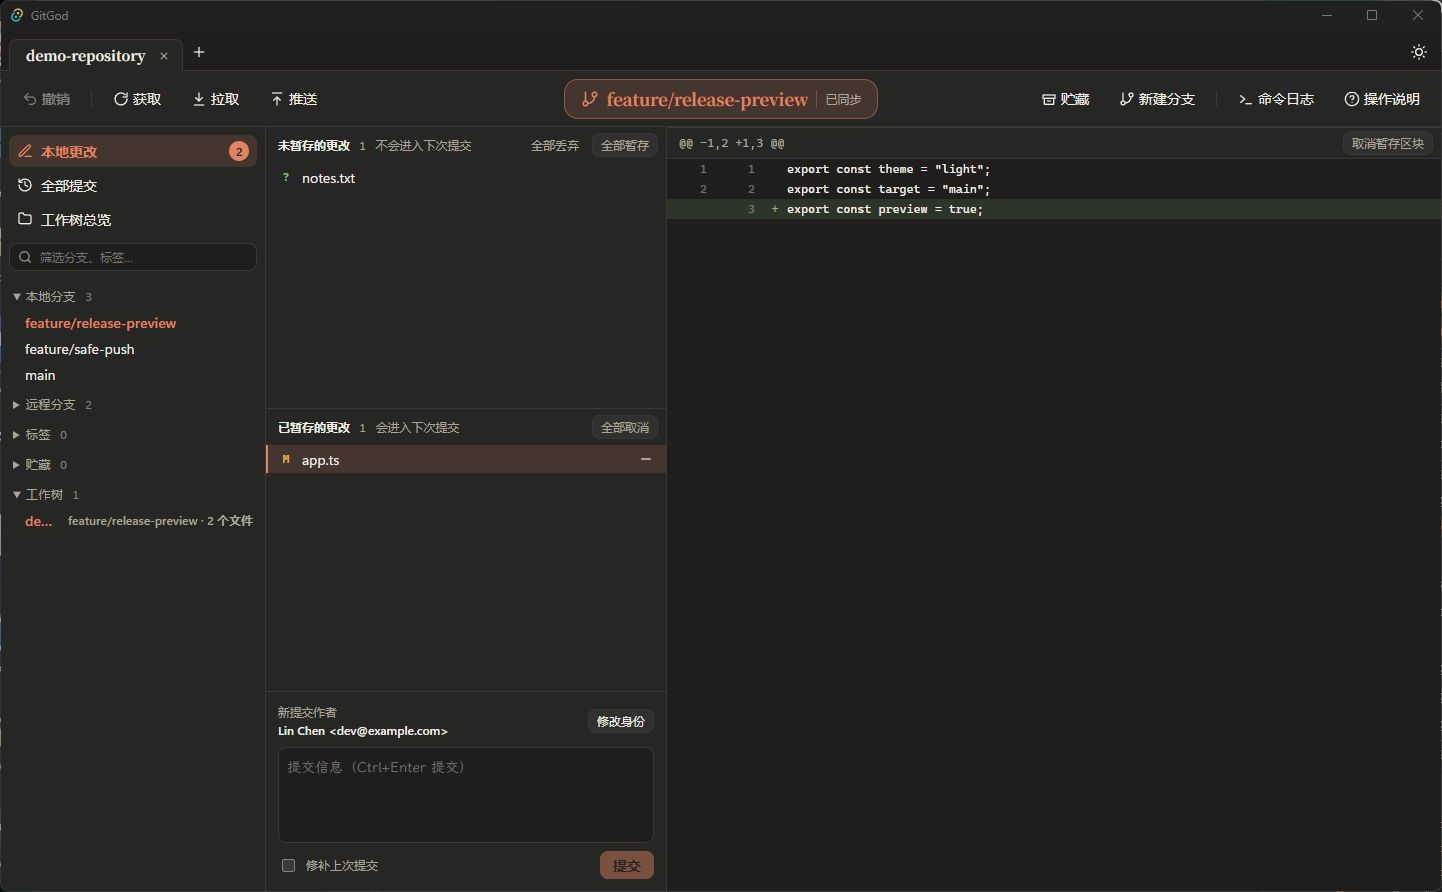
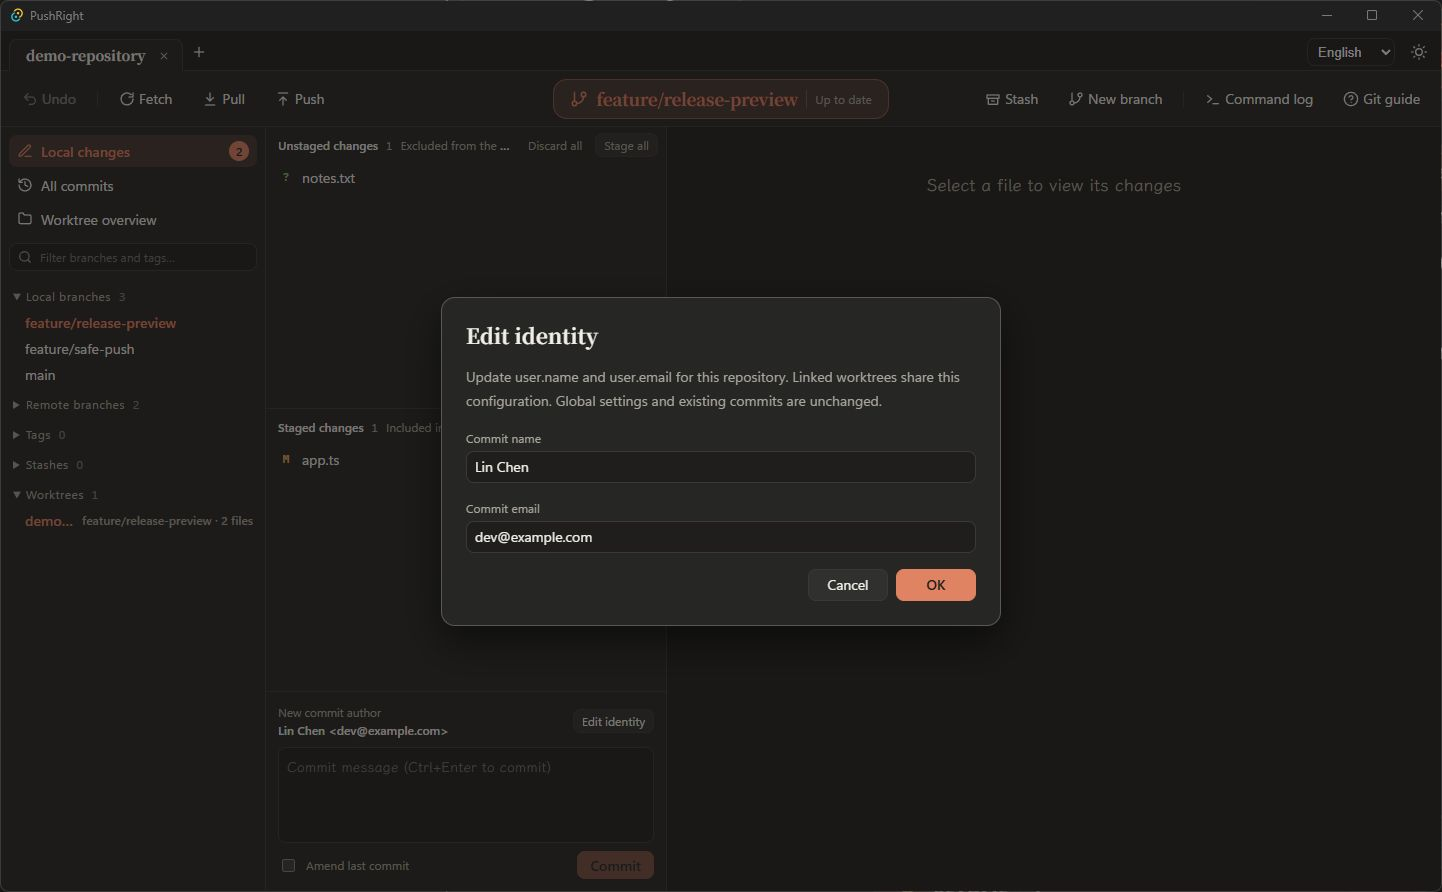
docs: publish bilingual PushRight guide with clean desktop screenshots

diff --git a/README.md b/README.md
@@ -1,100 +1,120 @@
-# GitGod
+# PushRight
 
-面向多分支日常工作的 Git 桌面可视化客户端，使用 Svelte、Tauri 和 Rust 构建。
+**See your branches. Push to the right place.**
 
-当前版本为 **v0.1.1 预览版**，提供 Windows x64 安装包。
+[English](README.md) · [简体中文](README.zh-CN.md)
 
-![GitGod 桌面版：提交图、独立作者样式与差异视图](docs/images/desktop.jpg)
+A Git desktop client built with Svelte, Tauri and Rust. PushRight makes push destinations explicit, recommends a remote branch with the same name, and defaults Pull to **Rebase instead of merge**.
 
-截图来自桌面程序，使用虚构作者和本地示例仓库。
+**v0.2.0 preview** is available for Windows x64. It starts in English and includes complete English and Simplified Chinese UI packs. Switch languages in the top-right corner; your choice is remembered.
 
-## 下载与安装
+![PushRight: commit graph, individual author styling and file differences](docs/images/desktop.jpg)
 
-从 [GitHub Releases](https://github.com/ArthurLauCS/GitGod/releases) 下载 `GitGod_0.1.1_x64-setup.exe`，运行安装程序。
+Screenshots show the actual desktop app with a local demo repository and fictional identities.
 
-- 支持 Windows 10 / 11 x64；本次发布在 Windows x64 上构建和验证。
-- 需要安装 [Git for Windows](https://git-scm.com/downloads/win)，并确保 `git` 在 PATH 中可用。
-- 需要 Microsoft Edge WebView2 Runtime；缺少时安装程序会尝试联网安装。
-- 安装包尚未进行代码签名，Windows 可能显示未知发布者提示。Release 附有 `SHA256SUMS.txt`，可用 PowerShell 的 `Get-FileHash .\GitGod_0.1.1_x64-setup.exe -Algorithm SHA256` 核对文件。
+## Download and install
 
-首次使用前，在 Git 中配置提交身份及远程认证：
+Download `PushRight_0.2.0_x64-setup.exe` from [GitHub Releases](https://github.com/ArthurLauCS/PushRight/releases/tag/v0.2.0).
+
+- Windows 10 / 11 x64; built and checked on Windows x64.
+- Install [Git for Windows](https://git-scm.com/downloads/win) and make `git` available on PATH.
+- Microsoft Edge WebView2 Runtime is required; the installer attempts an online installation if missing.
+- The installer offers English and Simplified Chinese. App language is selected independently.
+- This preview is unsigned; Windows may show an unknown-publisher prompt. Verify against the release's `SHA256SUMS.txt` using `Get-FileHash .\PushRight_0.2.0_x64-setup.exe -Algorithm SHA256`.
+
+Previously named GitGod. PushRight retains the application data identifier for settings compatibility. The old GitGod installation may remain separately installed; it is not removed automatically.
+
+Configure your identity in Git or edit it per repository in the app:
 
 ```sh
 git config --global user.name "Your Name"
 git config --global user.email "you@example.com"
 ```
 
-GitGod 使用系统 Git 的凭据管理器或 SSH 配置；遇到认证失败，先在终端完成相应仓库的 Git 认证。应用本身不提供账号登录或交互式终端提示。
+PushRight uses system Git credentials or SSH configuration. Complete authentication in a terminal first if needed; the app does not provide account sign-in or interactive terminal prompts.
 
-## 使用
+## Usage
 
-打开应用后选择本地 Git 仓库。也可将仓库路径作为启动参数传入：
+Open a local repository, or pass its path when launching:
 
 ```powershell
-& "C:\path\to\gitgod.exe" "C:\path\to\repository"
+& "C:\path\to\pushright.exe" "C:\path\to\repository"
 ```
 
-### 提交与推送
+### Commit and push
 
-1. 在工作区查看变更，按文件、差异块或选中行暂存，然后填写提交说明。
-2. 推送时检查目标远程和分支。当前分支与 upstream 名称不一致时，应用要求明确选择，并优先推荐同名远程分支。
-3. 推送使用明确的远程和分支 refspec。强制推送采用 `--force-with-lease`；仍需确认目标和预期影响。
+1. Review changes, stage files, hunks or selected lines, and enter a commit message.
+2. Check the remote and branch before pushing. When a branch name differs from its upstream, the app requires an explicit choice and recommends the same-name remote branch.
+3. Push uses an explicit remote and branch refspec. Force push uses `--force-with-lease`; check the destination and expected effect first.
 
-例如本地 `feature/login` 误跟踪 `origin/main` 时，推送候选会优先推荐 `origin/feature/login`，避免直接沿用错误的 upstream。
+For example, if local `feature/login` accidentally tracks `origin/main`, the dialog recommends `origin/feature/login` and makes the mismatch visible.
 
-### 单独设置作者样式
+### Pull with Rebase instead of merge
 
-在提交列表中右键某个作者，独立设置该作者的底色和边框。设置按作者原始邮箱保存；没有邮箱时按姓名匹配。同名、不同邮箱的作者不会互相影响。设置跨仓库保存在本机。
+Click **Pull**. The dialog shows the upstream and checks **Rebase instead of merge** every time, even if the previous pull used merge. The dialog cannot be skipped with “Don't show again.”
 
-左键作者可临时聚焦其提交；作者获得键盘焦点后，按 `Shift+F10` 也可打开样式设置。
+- Checked: explicitly runs `git pull --rebase`, overriding `pull.rebase=false` and branch-level merge preferences.
+- Unchecked: explicitly runs `git pull --no-rebase`, which may create a merge commit. Keep the box checked when your team requires it.
+- Commit or stash unfinished work first. Automatic stashing and updates to other local branch refs are disabled for this operation.
+- On conflicts, resolve and **Continue**, or **Abort** to restore the previous local state. During rebase, “ours” is upstream plus commits already replayed; “theirs” is the local commit being replayed.
 
-### 查看和修改提交身份
+![Pull with Rebase instead of merge checked by default](docs/images/pull-rebase.jpg)
 
-“本地更改”的提交区域显示 Git 实际使用的姓名和邮箱。点击“修改身份”，可保存当前仓库的 `user.name` 和 `user.email`，不影响全局配置或已有提交；关联工作树共享仓库配置。
+This is a **pull strategy** for any current branch. It does not determine how a feature branch merges into `dev`, `main` or `master`, or approve a hosted PR/MR. Follow the repository's separate merge policy. Rebase rewrites replayed commit IDs; coordinate before rewriting shared history. See the [Git pull reference](https://git-scm.com/docs/git-pull).
 
-如果环境变量或 `author.*` / `committer.*` / 工作树配置覆盖了这两个值，界面会显示实际身份并提示覆盖情况。修补上次提交会保留原作者，界面显示本次提交者。
+### Individual author styles
 
-![在提交区查看和修改当前仓库的提交身份](docs/images/commit-identity.jpg)
+Right-click an author to set that person's background and border. Styles use the raw email, falling back to the name only when email is absent. Identical names with different emails remain separate. Settings are saved locally across repositories.
 
-### 大仓库与大文件
+Left-click an author to highlight their commits temporarily. Keyboard users can focus an author and press `Shift+F10` to open styling.
 
-首屏只加载 2000 条提交，完整历史后台补齐；提交图使用紧凑骨架、每 1024 行的检查点，以及按可见窗口获取作者和标题。切换已有分支、引用重命名时，只更新标记和选中行，提交起点集合不变就复用提交图。
+### Commit identity
 
-差异读取最多保留 4 MiB + 1 字节；超限后停止读取，Git 差异进程会被终止。超过上限的文件仍可整文件暂存或提交。
+The **Local changes** commit panel shows the effective Git name and email. **Edit identity** saves repository-level `user.name` and `user.email`, without changing global configuration or existing commits. Linked worktrees share repository configuration.
 
-在本机的 148 万提交 Linux 仓库及 128 MiB 文件上进行了复测，环境、数据规模、结果和复现命令见 [性能记录](docs/PERFORMANCE.md)。
+The app reports effective identities and overrides from environment variables, `author.*`, `committer.*` or worktree configuration. Amending preserves the original author; the panel shows the current committer.
 
-### 已提供的功能
+![Repository commit identity](docs/images/commit-identity.jpg)
 
-- 多仓库标签页、最近仓库与会话恢复。
-- 虚拟滚动提交图、分支和标签标记、提交详情及文件差异。
-- 暂存、取消暂存、提交、修改上次提交；按文件、差异块或选中行处理变更。
-- 分支创建、切换、重命名与删除；合并、变基、cherry-pick、revert、reset 和标签操作。
-- Fetch、Pull、明确选择目标的 Push，以及 stash 操作。
-- Worktree 管理、冲突块处理、进行中操作的继续与中止。
-- 深浅主题、可调面板、独立作者样式、操作说明和命令日志。
+### Large repositories and files
 
-## 当前边界
+The initial view loads 2,000 commits; full history follows in the background. The graph uses a compact skeleton, checkpoints every 1,024 rows and visible-window metadata. Existing branch switches and ref renames reuse the graph when the set of starting commit IDs stays unchanged.
 
-- 这是桌面预览版。VS Code 扩展、行级 Blame、PR / Issue 和托管平台协作集成尚未交付。
-- 提交列表只渲染可见行，但完整历史仍会在后台读取；超大仓库的时间和内存开销需要进一步实测优化。
-- 超过 4 MiB 的补丁不显示完整差异。读取限制约束的是应用保留的数据，Git 子进程在输出补丁前仍可能消耗较多时间和内存。
-- 提交图最多显示 24 条轨道，实际数量随面板宽度变化；高度并行的复杂历史可能无法显示所有连线。
-- 尚未提供自动更新，也未发布 macOS / Linux 安装包。
-- 部分操作提供撤销入口，并非所有 Git 操作都能撤销；删除分支、丢弃变更、重置等操作前应检查提示。
+Diff reads retain at most 4 MiB + 1 byte. Oversized output stops the reader and terminates the Git diff process. Whole-file staging and commits remain available.
 
-## 本地开发
+Measurements on a local Linux repository with 1.48 million commits and a 128 MiB file, including scope and reproduction commands, are in the [performance report (Chinese)](docs/PERFORMANCE.md).
 
-需要 Node.js 24、Rust stable，以及 Windows 的 MSVC C++ 工具链和 Windows SDK。完整环境要求见 [Tauri 官方文档](https://v2.tauri.app/start/prerequisites/)。
+### Included features
+
+- Multiple repository tabs, recent repositories and session restoration.
+- Virtualized graph, branches, tags, commit details and file diffs.
+- Stage, unstage, commit and amend; file, hunk and selected-line operations.
+- Create, switch, rename and delete branches; merge, rebase, cherry-pick, revert, reset and tags.
+- Fetch, explicit Pull mode, destination-aware Push and stashes.
+- Worktrees, conflict resolution, Continue and Abort.
+- English / Simplified Chinese, light / dark themes, resizable panels, individual author styles, operation explanations and command logs.
+
+App text, tooltips, explanations and app-generated errors are translated. Repository content, commit messages, branch names and raw Git/OS output stay verbatim. Native OS dialogs use the system language.
+
+## Current limits
+
+- Desktop preview. VS Code extension, line-level blame, PR / Issue and hosting-provider collaboration are not delivered yet.
+- Visible rows are virtualized, but complete history is still read in the background.
+- Patches over 4 MiB are not displayed in full. The limit bounds retained app data; Git may still consume time and memory before producing output.
+- The graph has at most 24 lanes, reduced by available width. Highly parallel histories can omit connections.
+- No automatic updates or macOS / Linux installers yet.
+- Undo covers some local operations, not every Git action. Check prompts before destructive operations.
+
+## Development
+
+Requires Node.js 24, Rust stable, MSVC C++ tools and Windows SDK. See [Tauri prerequisites](https://v2.tauri.app/start/prerequisites/).
 
 ```sh
 npm ci
 npm run desktop:dev
 ```
 
-`npm run dev` 只启动前端网页，不能独立调用桌面 Git 后端。
-
-检查与构建：
+`npm run dev` starts only the frontend; Git operations require the desktop backend.
 
 ```sh
 npm run check
@@ -103,19 +123,18 @@ cargo test -p engine
 npm run desktop:build
 ```
 
-Windows 安装包输出到 `target/release/bundle/nsis/`。首次构建可能需要联网下载 Rust 依赖及 NSIS 打包工具。安装包构建方式见 [Tauri Windows Installer 文档](https://v2.tauri.app/distribute/windows-installer/)。
+The installer is written to `target/release/bundle/nsis/`. The first build may download dependencies and NSIS tools. See [Tauri Windows installers](https://v2.tauri.app/distribute/windows-installer/).
 
-目录：
-
-| 路径 | 职责 |
+| Path | Responsibility |
 | --- | --- |
-| `src/` | Svelte 界面、提交图、操作交互 |
-| `crates/engine/` | Rust Git 引擎：gix 读取、Git CLI 操作 |
-| `src-tauri/` | 桌面窗口、命令接口和安装包配置 |
-| `tests/` | 前端回归检查 |
+| `src/` | Svelte UI, graph and operation workflows |
+| `src/lib/locales/` | English and Simplified Chinese packs |
+| `crates/engine/` | Rust Git engine: gix reads and Git CLI operations |
+| `src-tauri/` | Desktop window, command bridge and installer |
+| `tests/` | Frontend regression checks |
 
-## 反馈与许可
+## Feedback and licenses
 
-请在 [Issues](https://github.com/ArthurLauCS/GitGod/issues) 中提交问题，附上版本、系统、复现步骤和必要日志；分享日志前请移除凭据及私密仓库信息。
+Report problems in [Issues](https://github.com/ArthurLauCS/PushRight/issues) with the version, OS, reproduction steps and relevant logs. Remove credentials and private repository information before sharing logs.
 
-第三方组件的许可声明见 [THIRD_PARTY_NOTICES.txt](THIRD_PARTY_NOTICES.txt)，安装目录也包含该文件。仓库公开不代表已授予本项目的开源使用许可；项目许可证尚待作者确定。
+Third-party notices are in [THIRD_PARTY_NOTICES.txt](THIRD_PARTY_NOTICES.txt) and included in the installation. A public repository does not itself grant an open-source license; the project license has not yet been selected by the author.

diff --git a/README.zh-CN.md b/README.zh-CN.md
@@ -1,0 +1,139 @@
+# PushRight
+
+[English](README.md) · [简体中文](README.zh-CN.md)
+
+面向多分支日常工作的 Git 桌面可视化客户端，使用 Svelte、Tauri 和 Rust 构建。
+
+当前版本为 **v0.2.0 预览版**，提供 Windows x64 安装包。首次启动默认英文，内置完整英文和简体中文语言包，可在右上角切换，选择会保存在本机。界面、提示、操作说明和应用自身的错误均提供双语；仓库内容和 Git / 系统原始输出保持原文，系统原生对话框使用系统语言。
+
+![PushRight 桌面版：提交图、独立作者样式与差异视图](docs/images/desktop.jpg)
+
+截图来自桌面程序，使用虚构作者和本地示例仓库。
+
+## 下载与安装
+
+从 [GitHub Releases](https://github.com/ArthurLauCS/PushRight/releases) 下载 `PushRight_0.2.0_x64-setup.exe`，运行安装程序。
+
+- 支持 Windows 10 / 11 x64；本次发布在 Windows x64 上构建和验证。
+- 需要安装 [Git for Windows](https://git-scm.com/downloads/win)，并确保 `git` 在 PATH 中可用。
+- 需要 Microsoft Edge WebView2 Runtime；缺少时安装程序会尝试联网安装。
+- 安装包尚未进行代码签名，Windows 可能显示未知发布者提示。Release 附有 `SHA256SUMS.txt`，可用 PowerShell 的 `Get-FileHash .\PushRight_0.2.0_x64-setup.exe -Algorithm SHA256` 核对文件。
+
+安装器支持英文和简体中文，应用语言独立选择。产品此前名为 GitGod；PushRight 保留应用数据标识以兼容已有设置。旧版 GitGod 可能作为独立安装保留，不会被自动删除。
+
+首次使用前，在 Git 中配置提交身份及远程认证：
+
+```sh
+git config --global user.name "Your Name"
+git config --global user.email "you@example.com"
+```
+
+PushRight 使用系统 Git 的凭据管理器或 SSH 配置；遇到认证失败，先在终端完成相应仓库的 Git 认证。应用本身不提供账号登录或交互式终端提示。
+
+## 使用
+
+打开应用后选择本地 Git 仓库。也可将仓库路径作为启动参数传入：
+
+```powershell
+& "C:\path\to\pushright.exe" "C:\path\to\repository"
+```
+
+### 提交与推送
+
+1. 在工作区查看变更，按文件、差异块或选中行暂存，然后填写提交说明。
+2. 推送时检查目标远程和分支。当前分支与 upstream 名称不一致时，应用要求明确选择，并优先推荐同名远程分支。
+3. 推送使用明确的远程和分支 refspec。强制推送采用 `--force-with-lease`；仍需确认目标和预期影响。
+
+例如本地 `feature/login` 误跟踪 `origin/main` 时，推送候选会优先推荐 `origin/feature/login`，避免直接沿用错误的 upstream。
+
+### 拉取时使用变基而非合并
+
+点击「拉取」，对话框会显示当前上游，并且每次默认勾选 **变基而非合并（Rebase instead of merge）**；即使上次取消勾选，下次仍默认开启。此对话框不能通过「下次不再显示」跳过。
+
+- 勾选时明确执行 `git pull --rebase`，覆盖 `pull.rebase=false` 或分支级别的合并偏好。
+- 取消勾选则执行 `git pull --no-rebase`，可能产生合并提交。团队要求拉取时变基，请保持勾选。
+- 先提交或贮藏未完成的改动；此次拉取禁用自动贮藏和自动更新其他本地分支引用。
+- 遇到冲突，解决后点击「继续」，或点击「中止」恢复原状态。变基时 Git 的「我方」是上游及已重放的提交，「对方」是正在重放的本地提交。
+
+![拉取时默认勾选 Rebase instead of merge](docs/images/pull-rebase.jpg)
+
+这是各分支拉取上游时的策略，不规定功能分支如何合入 `dev`、`main` 或 `master`，也不会审批托管平台 PR/MR；合入方式仍按仓库的独立规范执行。变基会改变重放提交的 ID，重写共享历史前应与协作者协调。参见 [Git pull 官方文档](https://git-scm.com/docs/git-pull)。
+
+### 单独设置作者样式
+
+在提交列表中右键某个作者，独立设置该作者的底色和边框。设置按作者原始邮箱保存；没有邮箱时按姓名匹配。同名、不同邮箱的作者不会互相影响。设置跨仓库保存在本机。
+
+左键作者可临时聚焦其提交；作者获得键盘焦点后，按 `Shift+F10` 也可打开样式设置。
+
+### 查看和修改提交身份
+
+“本地更改”的提交区域显示 Git 实际使用的姓名和邮箱。点击“修改身份”，可保存当前仓库的 `user.name` 和 `user.email`，不影响全局配置或已有提交；关联工作树共享仓库配置。
+
+如果环境变量或 `author.*` / `committer.*` / 工作树配置覆盖了这两个值，界面会显示实际身份并提示覆盖情况。修补上次提交会保留原作者，界面显示本次提交者。
+
+![在提交区查看和修改当前仓库的提交身份](docs/images/commit-identity.jpg)
+
+### 大仓库与大文件
+
+首屏只加载 2000 条提交，完整历史后台补齐；提交图使用紧凑骨架、每 1024 行的检查点，以及按可见窗口获取作者和标题。切换已有分支、引用重命名时，只更新标记和选中行，提交起点集合不变就复用提交图。
+
+差异读取最多保留 4 MiB + 1 字节；超限后停止读取，Git 差异进程会被终止。超过上限的文件仍可整文件暂存或提交。
+
+在本机的 148 万提交 Linux 仓库及 128 MiB 文件上进行了复测，环境、数据规模、结果和复现命令见 [性能记录](docs/PERFORMANCE.md)。
+
+### 已提供的功能
+
+- 多仓库标签页、最近仓库与会话恢复。
+- 虚拟滚动提交图、分支和标签标记、提交详情及文件差异。
+- 暂存、取消暂存、提交、修改上次提交；按文件、差异块或选中行处理变更。
+- 分支创建、切换、重命名与删除；合并、变基、cherry-pick、revert、reset 和标签操作。
+- Fetch、明确选择变基或合并的 Pull、明确选择目标的 Push，以及 stash 操作。
+- Worktree 管理、冲突块处理、进行中操作的继续与中止。
+- 中英语言切换、深浅主题、可调面板、独立作者样式、操作说明和命令日志。
+
+## 当前边界
+
+- 这是桌面预览版。VS Code 扩展、行级 Blame、PR / Issue 和托管平台协作集成尚未交付。
+- 提交列表只渲染可见行，但完整历史仍会在后台读取；超大仓库的时间和内存开销需要进一步实测优化。
+- 超过 4 MiB 的补丁不显示完整差异。读取限制约束的是应用保留的数据，Git 子进程在输出补丁前仍可能消耗较多时间和内存。
+- 提交图最多显示 24 条轨道，实际数量随面板宽度变化；高度并行的复杂历史可能无法显示所有连线。
+- 尚未提供自动更新，也未发布 macOS / Linux 安装包。
+- 部分操作提供撤销入口，并非所有 Git 操作都能撤销；删除分支、丢弃变更、重置等操作前应检查提示。
+
+## 本地开发
+
+需要 Node.js 24、Rust stable，以及 Windows 的 MSVC C++ 工具链和 Windows SDK。完整环境要求见 [Tauri 官方文档](https://v2.tauri.app/start/prerequisites/)。
+
+```sh
+npm ci
+npm run desktop:dev
+```
+
+`npm run dev` 只启动前端网页，不能独立调用桌面 Git 后端。
+
+检查与构建：
+
+```sh
+npm run check
+npm test
+cargo test -p engine
+npm run desktop:build
+```
+
+Windows 安装包输出到 `target/release/bundle/nsis/`。首次构建可能需要联网下载 Rust 依赖及 NSIS 打包工具。安装包构建方式见 [Tauri Windows Installer 文档](https://v2.tauri.app/distribute/windows-installer/)。
+
+目录：
+
+| 路径 | 职责 |
+| --- | --- |
+| `src/` | Svelte 界面、提交图、操作交互 |
+| `src/lib/locales/` | 完整英文和简体中文语言包 |
+| `crates/engine/` | Rust Git 引擎：gix 读取、Git CLI 操作 |
+| `src-tauri/` | 桌面窗口、命令接口和安装包配置 |
+| `tests/` | 前端回归检查 |
+
+## 反馈与许可
+
+请在 [Issues](https://github.com/ArthurLauCS/PushRight/issues) 中提交问题，附上版本、系统、复现步骤和必要日志；分享日志前请移除凭据及私密仓库信息。
+
+第三方组件的许可声明见 [THIRD_PARTY_NOTICES.txt](THIRD_PARTY_NOTICES.txt)，安装目录也包含该文件。仓库公开不代表已授予本项目的开源使用许可；项目许可证尚待作者确定。
